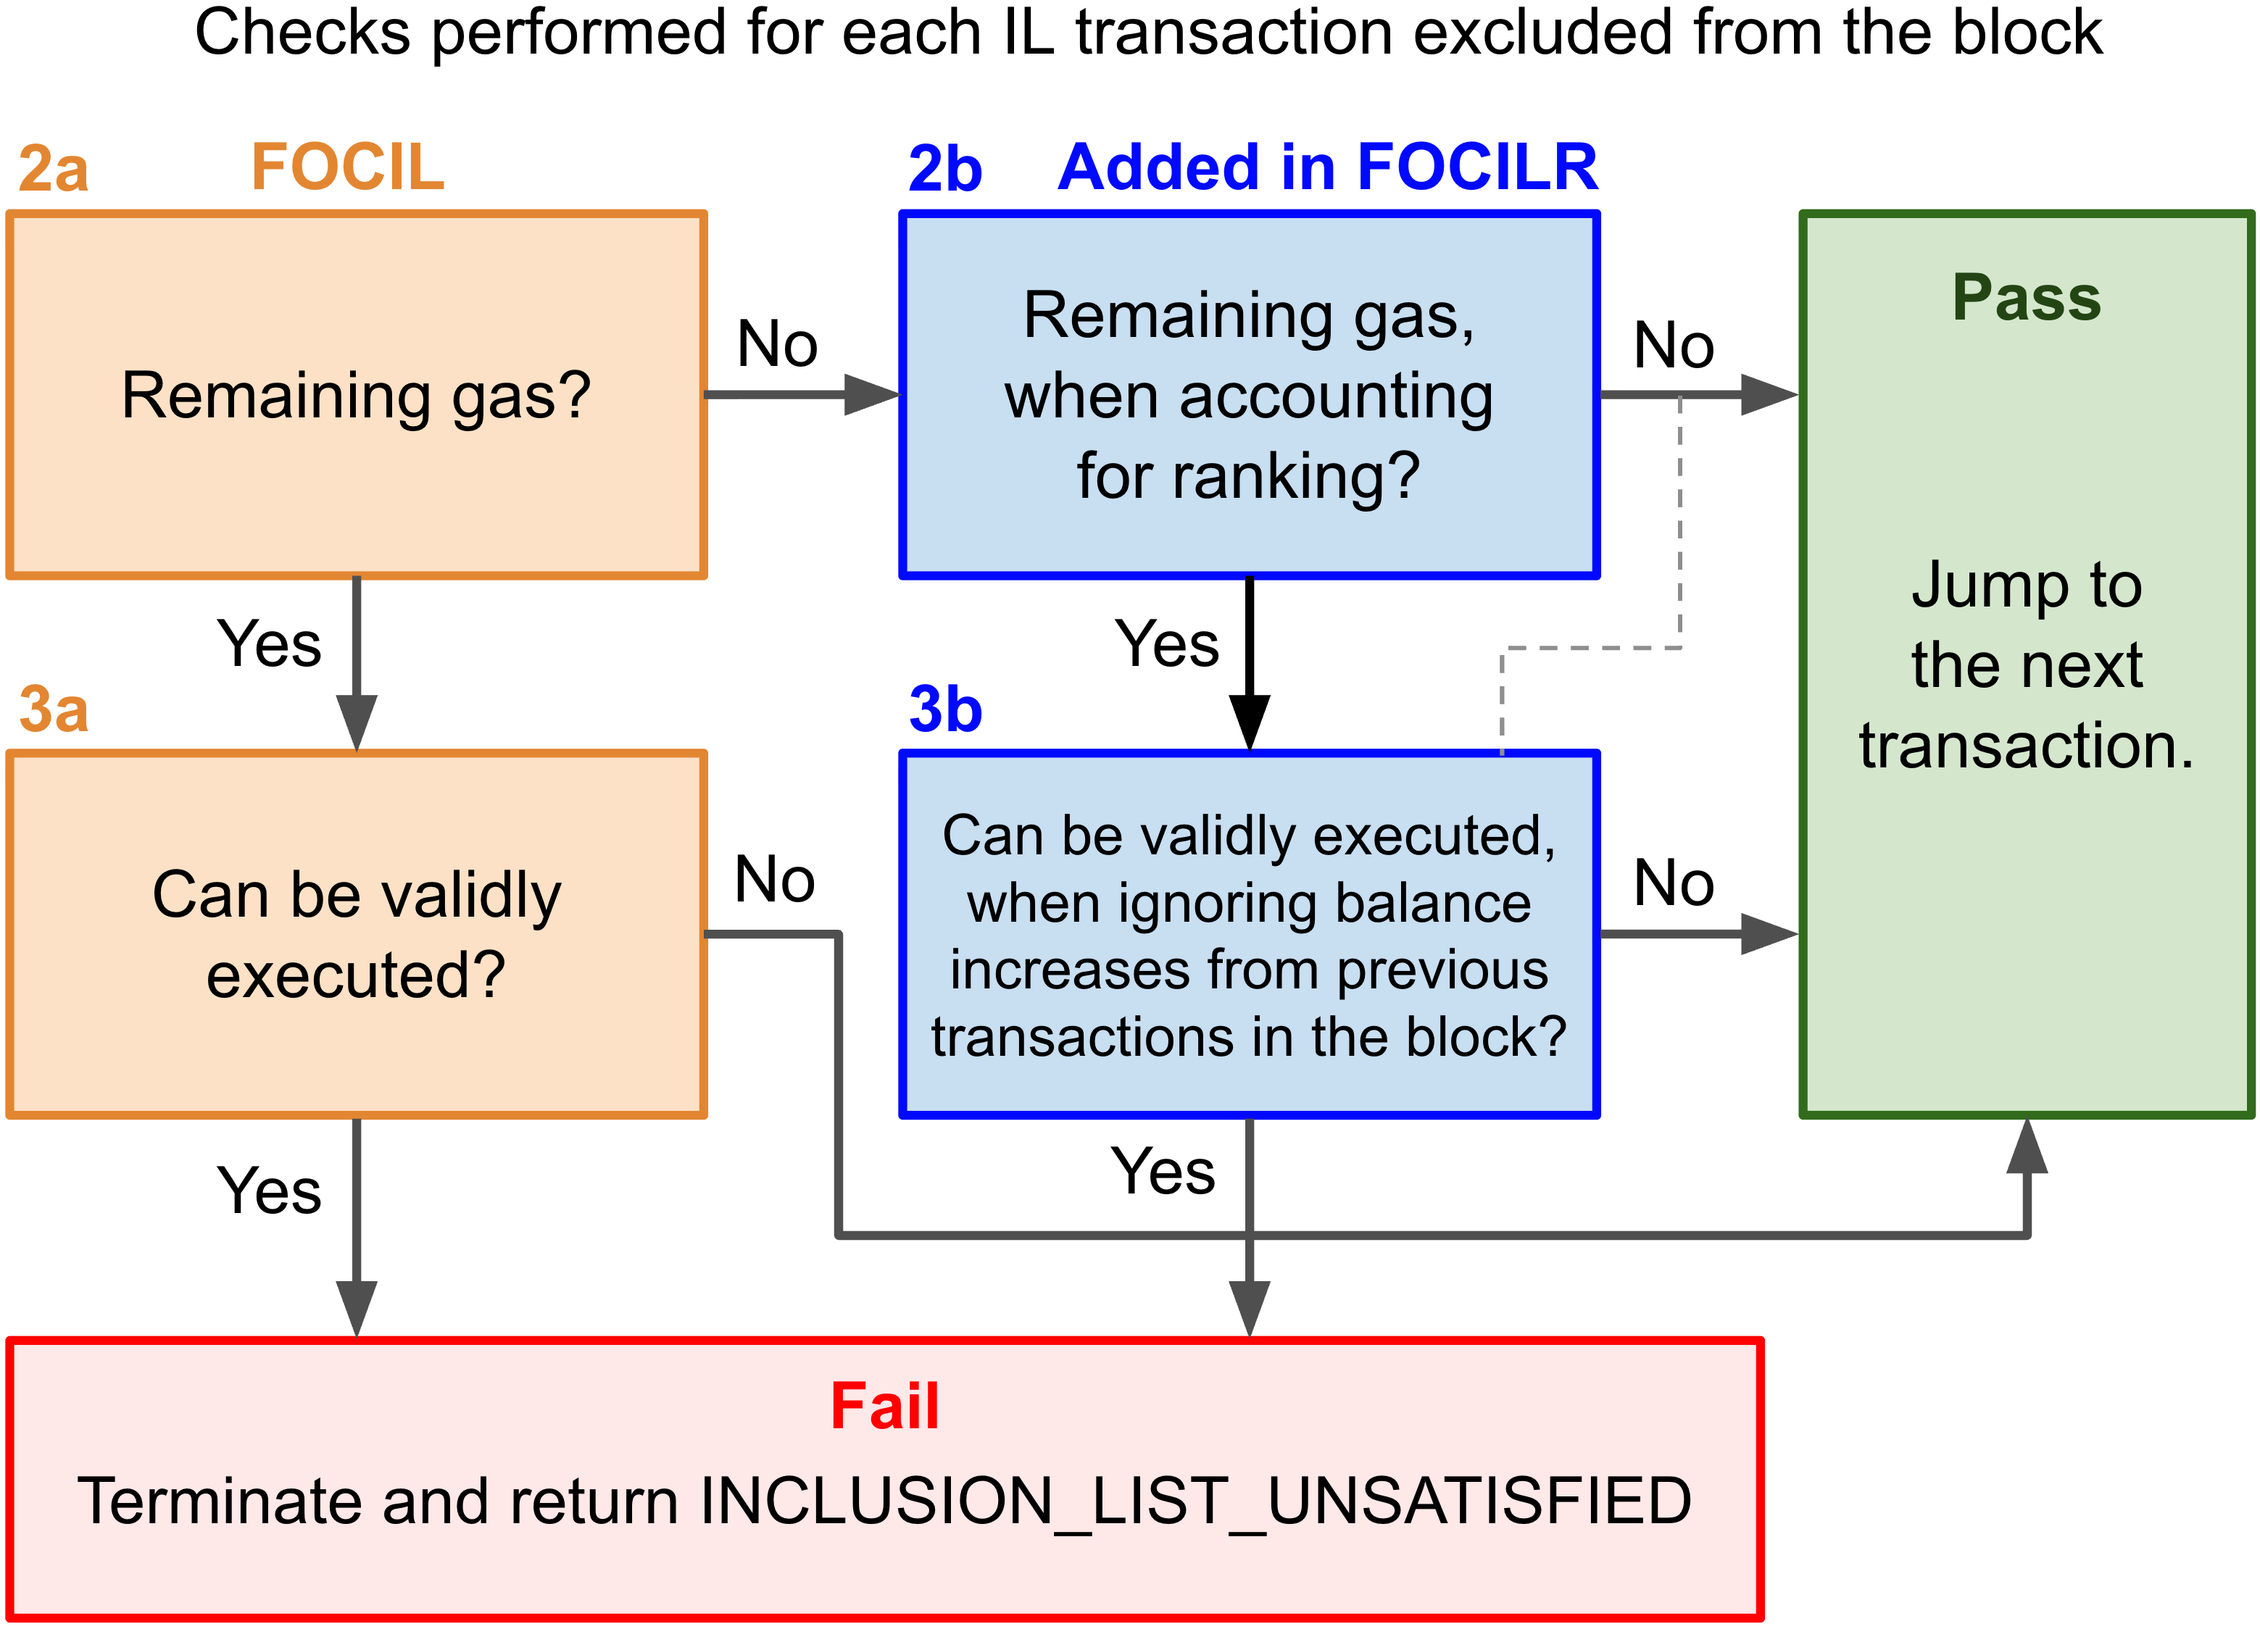
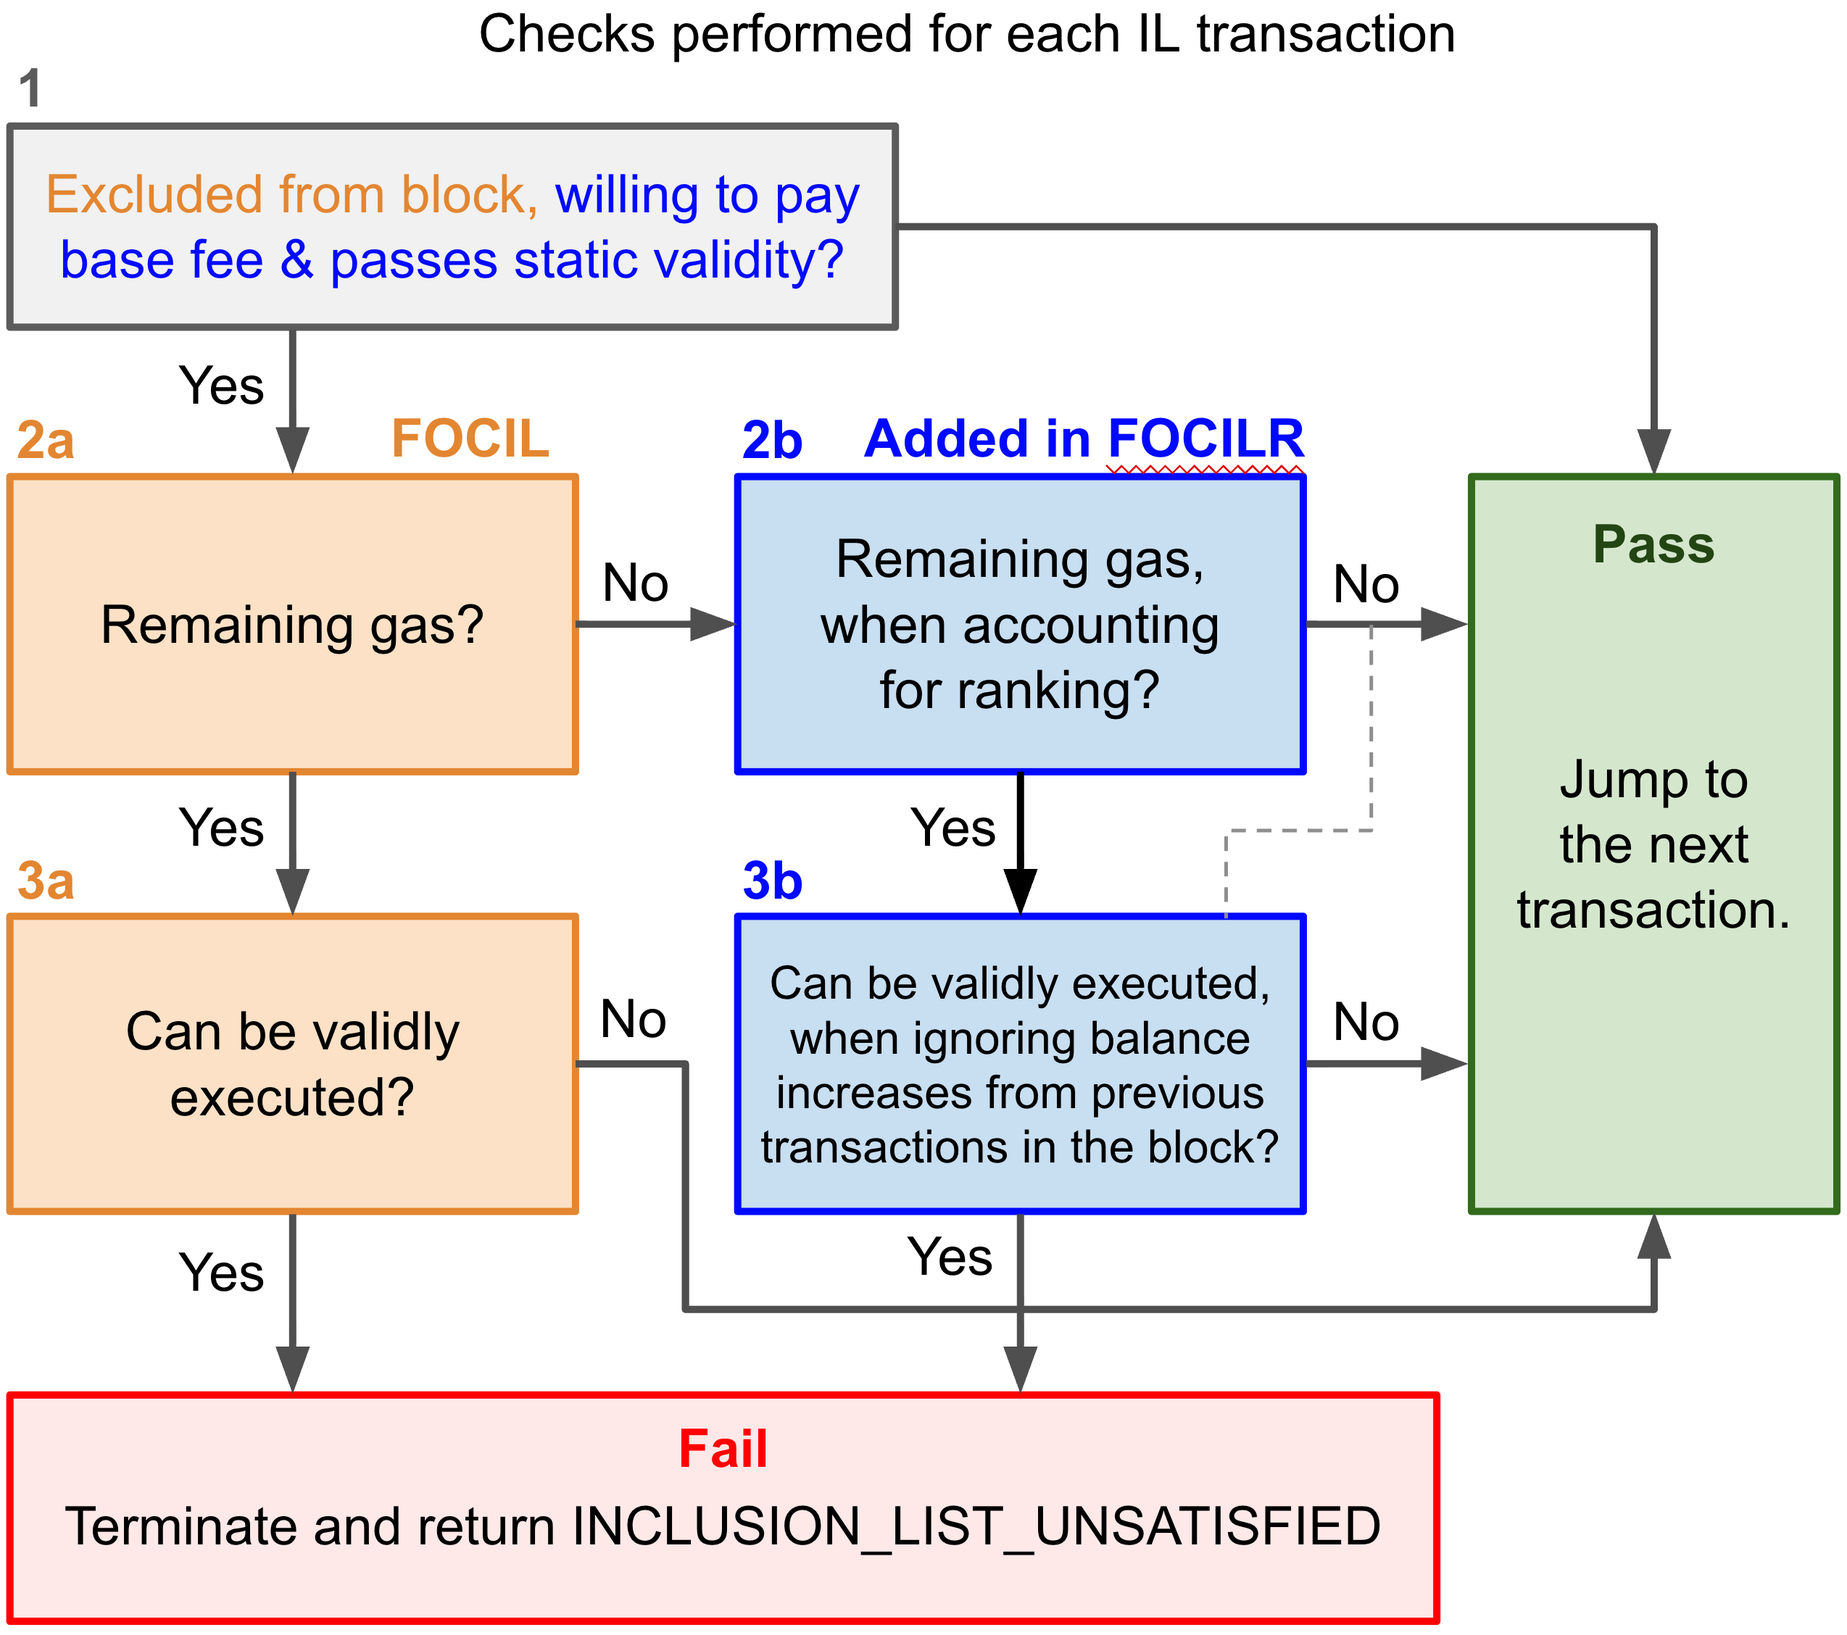
Further adjustments to EIP-8046 and updated figure

diff --git a/EIPS/eip-8046.md b/EIPS/eip-8046.md
@@ -92,7 +92,7 @@ is redundant and is removed.
 
 ### Altered FOCIL post-execution inclusion check
 
-The post-execution inclusion check of EIP-7805 is altered as outlined in the figure. Orange squares represent the original FOCIL checks, where "No" always leads to jumping to the next transaction. Blue squares are the checks added in FOCILR that account for ranking.
+The post-execution inclusion check of [EIP-7805](./eip-7805.md) is altered as outlined in the figure. Orange squares represent the original FOCIL checks, where "No" always leads to jumping to the next transaction. Blue squares are the checks added in FOCILR that account for ranking. The first black square of step (1) contains only peripheral modifications that do not alter the intended outcome of the inclusion check.
 
 ![Figure 1](../assets/eip-8046/1.png)
 
@@ -182,9 +182,9 @@ The builder may sometimes via its private orderflow or late-arriving transaction
 
 ### Multidimensional FOCILR
 
-If there are multiple resources, `gas_ranked_left(T)` is a vector. Using the notation of EIP-7999, all *conditional* resources must then be checked against the corresponding gas limits specified by the analyzed transaction. Transactions that consume any *deconditional* resource are not subject to the FOCILR post-execution check, and insufficient capacity in an *unconditional* resource is never a valid reason to exclude an IL transaction.
+If there are multiple resources, `gas_ranked_left(T)` is a vector. Using the notation of [EIP-7999](./eip-7999.md), all *conditional* resources must then be checked against the corresponding gas limits specified by the analyzed transaction. Transactions that consume any *deconditional* resource are not subject to the FOCILR post-execution check, and insufficient capacity in an *unconditional* resource is never a valid reason to exclude an IL transaction.
 
-Thus, under multidimensional FOCILR, the transaction is checked against `gas_ranked_left(T)` over the conditional resources only, in both (2a) and (2b). However, given the strong CR of FOCILR, it would be perfectly feasible to classify calldata as conditional instead of using the unconditional classification of EIP-7999.
+Thus, under multidimensional FOCILR, the transaction is checked against `gas_ranked_left(T)` over the conditional resources only, in both (2a) and (2b). However, given the strong CR of FOCILR, it would be perfectly feasible to classify calldata as conditional instead of using the unconditional classification of [EIP-7999](./eip-7999.md).
 
 ### Censorship resistance under FOCIL and FOCILR
 
@@ -196,7 +196,7 @@ In this equation, $g_d$ is the gas that the builder must pay by creating so-call
 
 #### Multidimensional fee market
 
-Under a multidimensional fee market envisioned in EIP-7706 and EIP-7999, the base fee is set individually per resource to maximize utilization of blockspace. As noted in EIP-7999, the base fee may therefore sometimes become very low for a resource, meaning that the cost of generating dummy transactions to fill the block also becomes very low. In a potential multidimensional FOCIL, it is then only necessary that one resource used by a transaction is filled to censor that transaction. Furthermore, while the base fee will increase for the resource that was filled with dummy transactions, the base fees of all other resources will not. These base fees will instead vary based on gas consumed by regular transactions included in the block. The builder can potentially vary which resource it fills the block for, to keep any base fee from exploding during prolonged censorship. Define $\mathbf{f_b}$ as the vector of base fees. The outcome for FOCIL and FOCILR respectively is:
+Under a multidimensional fee market envisioned in [EIP-7706](./eip-7706.md) and [EIP-7999](./eip-7999.md), the base fee is set individually per resource to maximize utilization of blockspace. As noted in [EIP-7999](./eip-7999.md), the base fee may therefore sometimes become very low for a resource, meaning that the cost of generating dummy transactions to fill the block also becomes very low. In a potential multidimensional FOCIL, it is then only necessary that one resource used by a transaction is filled to censor that transaction. Furthermore, while the base fee will increase for the resource that was filled with dummy transactions, the base fees of all other resources will not. These base fees will instead vary based on gas consumed by regular transactions included in the block. The builder can potentially vary which resource it fills the block for, to keep any base fee from exploding during prolonged censorship. Define $\mathbf{f_b}$ as the vector of base fees. The outcome for FOCIL and FOCILR respectively is:
 
 **FOCIL:** The cost of censorship for the first block is $C_0 = g_d\min(\mathbf{f_b})$, and thus $C_0 \to 0$ if $\min(\mathbf{f_b}) \to 0$. The cost can potentially be kept close to 0 even under continued censorship, depending on the distribution of the equilibrium base fees under no censorship and the fee elasticities of demand.
 
@@ -245,7 +245,7 @@ Some includers might charge transactors for their services in FOCIL, but the val
 
 There are nuances to the design that need careful consideration before adoption. Something to be attentive to is the effect of burning the marginal ranking fee, given that avoiding the burn is not a zero-sum outcome for builders and includers. This is further discussed in the next section. 
 
-### Alternative designs for rewarding includers
+### Alternative specifications for rewarding includers
 
 Transactors might wish to reward includers in both FOCIL and FOCILR for surfacing their transaction in an IL. They may recognize that the space in each IL is limited, meaning includers sometimes need to prioritize between available transactions. They might also fear that builders could bribe includers to not fulfill their duties, so that the builder can exclude unwanted transactions. As discussed previously, FOCILR strengthens the position of includers, giving them in some sense equal power to the builder in deciding which transactions enter the block. For this reason, the case for rewarding includers is also stronger: an IL transaction does not require a priority fee to be included, even in full blocks—it must be included if it offers a higher ranking fee than competing transactions.
 
@@ -287,7 +287,7 @@ Builders may try to bribe includers to not include transactions. If an includer 
 
 However, due to the gradual construction of the aggregate IL, the builder can offer higher bribes than 1/`IL_COMMITTEE_SIZE` to the last remaining includers, to keep some transactions not yet included out of the IL aggregate. The last remaining includer that spots a late transaction might be able to choose between including it to receive 1/`IL_COMMITTEE_SIZE` of the priority fee, or to receive 1/2 of a conditional priority fee as a bribe to not include it.
 
-### Alternative specifications
+### Alternative specifications for the auction and transaction format
 
 #### Omit the new transaction format with its added ranking fee field 
 
@@ -338,7 +338,7 @@ The consensus layer (CL) constructs a list of execution-layer (EL) payout addres
 
 A second alternative is to let the priority fee act as a ranking fee in a pay-as-you-bid auction. The priority fee is distributed collectively to includers if it was surfaced by at least one inclusion list. Otherwise it is distributed to the builder. *Only* priority fees distributed to the includers count towards the transaction's ranking. 
 
-The builder specifies whether an included transaction was surfaced by an IL via a bitfield `IL_transaction` in the payload body, of equal length to the number of transactions. For all transactions where `IL_transaction[i]=FALSE`, the attesters check that they are not in any observed timely ILs, and otherwise return `INCLUSION_LIST_UNSATISFIED`. For these transactions, the builder can also apply the `priority_fee_shift_per_gas` described in the previous subsection, which however here is the same for all transactions since none have an initial ranking fee. Under EIP-1559, transaction processing is changed as follows:
+The builder specifies whether an included transaction was surfaced by an IL via a bitfield `IL_transaction` in the payload body, of equal length to the number of transactions. For all transactions where `IL_transaction[i]=FALSE`, the attesters check that they are not in any observed timely ILs, and otherwise return `INCLUSION_LIST_UNSATISFIED`. For these transactions, the builder can also apply the `priority_fee_shift_per_gas` described in the previous subsection, which however here is the same for all transactions since none have an initial ranking fee. Under [EIP-1559](./eip-1559.md), transaction processing is changed as follows:
 
 ```Python
 ...
